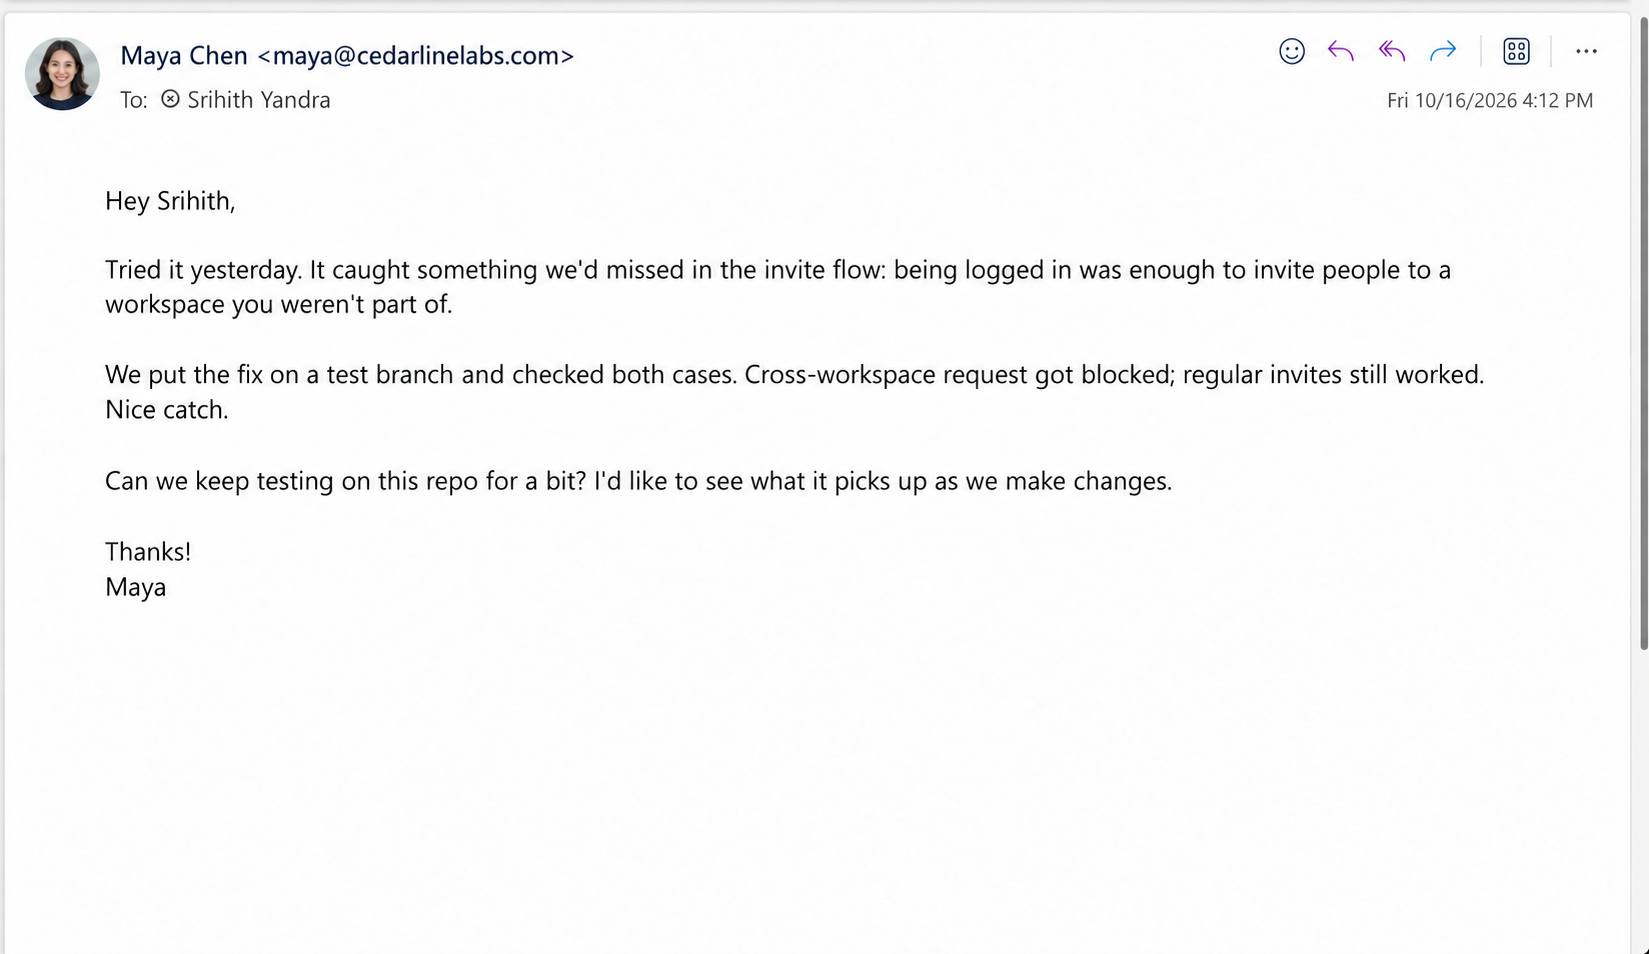
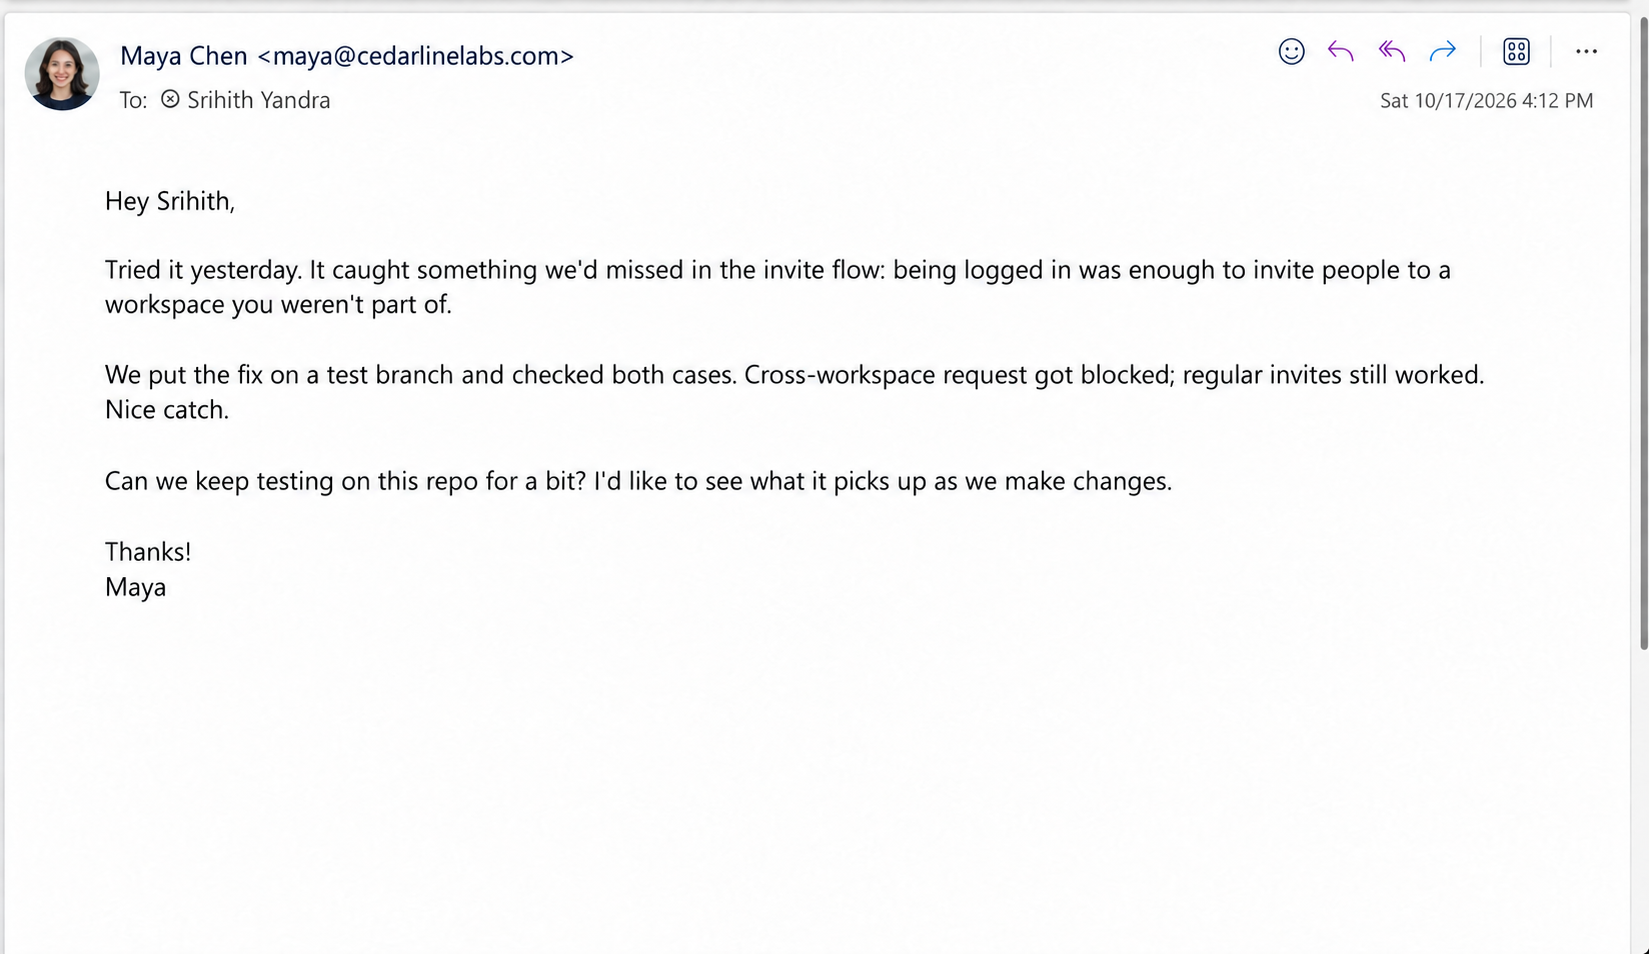
fix(presentation): replace prototype feedback screenshots

diff --git a/public/index.html b/public/index.html
@@ -835,7 +835,7 @@
     .customer-story-slide .feedback-cue{font-size:15px;line-height:1.4;color:#ffb09f;margin-top:16px}
     .customer-story-slide .email-focus{position:relative;height:343px;margin-top:24px;overflow:hidden;border-radius:12px;background:white;transform-origin:75% 35%;transition:transform .65s cubic-bezier(.16,1,.3,1),opacity .3s}
     .customer-story-slide .email-focus img{width:100%;height:auto;display:block}
-    .customer-story-slide .email-result-highlight{position:absolute;left:5.1%;top:82.7%;width:68%;height:8%;background:rgba(255,208,70,.48);mix-blend-mode:multiply;border-radius:4px;transform:scaleX(0);transform-origin:left;transition:transform .5s .55s cubic-bezier(.16,1,.3,1)}
+    .customer-story-slide .email-result-highlight{position:absolute;left:5.8%;top:89.8%;width:68%;height:6.2%;background:rgba(255,208,70,.48);mix-blend-mode:multiply;border-radius:4px;transform:scaleX(0);transform-origin:left;transition:transform .5s .55s cubic-bezier(.16,1,.3,1)}
     .customer-story-slide[data-build-current='2'] .email-result-highlight{transform:scaleX(1)}
     .customer-story-slide:not([data-build-current='2']) .email-focus{transform:translate(200px,45px) scale(.62);opacity:0}
     .customer-story-slide.feedback-slide[data-build-current='1'] .email-focus{transform:none;opacity:1}
@@ -1154,7 +1154,7 @@ REFERENCE AND CUES, NOT SPOKEN: CUE: Segment 1 is visible on entry. Click once f
 
       <section class="slide dark customer-story-slide feedback-slide" data-note="SPOKEN: Five supplied prototype-feedback emails report reproduced issues, reviewed repairs and passing checks. Here is Jordan's example: the injection case stopped working and existing search tests passed.
 
-REFERENCE, NOT SPOKEN: This feedback/evidence slide follows the prototype workflow and verification section. Entry shows VC validation pending and the five supplied emails; one click enlarges Jordan's email and highlights the reported result. Next enters financials. Left from the enlarged view returns to the gallery; Left from the gallery returns to the prototype verification section. Screenshots supplied by the team, dated October16,2026, are reported prototype outcomes, not independently audited run artifacts or five paying customers. Samira also asks for clearer repository permissions and code-processing explanations. Preserve that caveat in discussion. VC feedback remains pending. Sources: docs/prototype-feedback.md." data-spoken="Five supplied prototype-feedback emails report reproduced issues, reviewed repairs and passing checks. Here is Jordan's example: the injection case stopped working and existing search tests passed." data-duration-s="14">
+REFERENCE, NOT SPOKEN: This feedback/evidence slide follows the prototype workflow and verification section. Entry shows VC validation pending and the five supplied emails; one click enlarges Jordan's email and highlights the reported result. Next enters financials. Left from the enlarged view returns to the gallery; Left from the gallery returns to the prototype verification section. Screenshots supplied by the team, dated October17,2026, are reported prototype outcomes, not independently audited run artifacts or five paying customers. Samira also asks for clearer repository permissions and code-processing explanations. Preserve that caveat in discussion. VC feedback remains pending. Sources: docs/prototype-feedback.md." data-spoken="Five supplied prototype-feedback emails report reproduced issues, reviewed repairs and passing checks. Here is Jordan's example: the injection case stopped working and existing search tests passed." data-duration-s="14">
         <div class="slide-head"><span class="brand-mini"><img class="brand-ant" src="ari-ant-mark.png" alt="" aria-hidden="true">User Understanding / Evidence of Need</span><span class="slide-num">12</span></div>
         <span class="build-trigger" data-build="1"></span>
         <div class="customer-phase cp1">
@@ -1187,7 +1187,7 @@ REFERENCE, NOT SPOKEN: This feedback/evidence slide follows the prototype workfl
             <span class="email-result-highlight" aria-hidden="true"></span>
           </div>
           <blockquote class="feedback-quote">“<mark>injection case stopped working;</mark> existing search tests passed.”</blockquote>
-          <p class="feedback-attribution">Jordan Ellis · CTO, Harborseed Studio · October 16, 2026 · Reported prototype result</p>
+          <p class="feedback-attribution">Jordan Ellis · CTO, Harborseed Studio · October 17, 2026 · Reported prototype result</p>
         </div>
       </section>
 

diff --git a/docs/prototype-feedback.md b/docs/prototype-feedback.md
@@ -2,13 +2,13 @@
 
 Added October 17, 2026. Five screenshots supplied by the user for the evidence build, now slide 12. These are reported prototype outcomes, not independently reproduced run artifacts, paid adoption, or proof of general production effectiveness.
 
-- `public/feedback/priya.png` (IMG_7168): Priya Shah, Mosaic Relay. Reports billing-event idempotency repair, repeated-event case and normal payment tests passing, and retained regression test.
-- `public/feedback/jordan.png` (IMG_9790): Jordan Ellis, CTO, Harborseed Studio. Reports a reviewed parameterized query. Featured exact excerpt: “injection case stopped working; existing search tests passed.”
-- `public/feedback/maya.png` (IMG_2848): Maya Chen, Cedarline Labs. Reports cross-workspace request blocked and regular invites still working on a test branch; asks to continue testing.
-- `public/feedback/alex.png` (IMG_0281): Alex Rivera, Fieldnote Systems. Reports generic error response, details retained in logs, error tests passed on test branch; says the finding was understandable.
-- `public/feedback/samira.png` (IMG_5341): Samira Okafor, Engineering Lead, Juniper Trace. Reports traversal input rejected and normal upload passed. Requests clearer repository permissions and code-processing information before widening the trial.
+- `public/feedback/priya.png`: Priya Shah, Mosaic Relay. Reports billing-event idempotency repair, repeated-event case and normal payment tests passing, and retained regression test.
+- `public/feedback/jordan.png`: Jordan Ellis, CTO, Harborseed Studio. Reports a reviewed parameterized query. Featured exact excerpt: “injection case stopped working; existing search tests passed.”
+- `public/feedback/maya.png`: Maya Chen, Cedarline Labs. Reports cross-workspace request blocked and regular invites still working on a test branch; asks to continue testing.
+- `public/feedback/alex.png`: Alex Rivera, Fieldnote Systems. Reports generic error response, details retained in logs, error tests passed on test branch; says the finding was understandable.
+- `public/feedback/samira.png`: Samira Okafor, Engineering Lead, Juniper Trace. Reports traversal input rejected and normal upload passed. Requests clearer repository permissions and code-processing information before widening the trial.
 
-All screenshots are dated October 16, 2026. Original images are preserved without pixel edits. The slide uses CSS clipping for compact previews and a CSS highlight over Jordan's reported check. VC validation has no supplied evidence and remains pending.
+All five screenshots were replaced with the user-supplied October 17, 2026 screenshots. Jordan’s updated email also reports the fix was accepted, merged and deployed to staging; this remains a reported outcome. Original images are preserved without pixel edits. The slide uses CSS clipping for compact previews and a CSS highlight over Jordan's reported check. VC validation has no supplied evidence and remains pending.
 
 ## Presentation states
 
